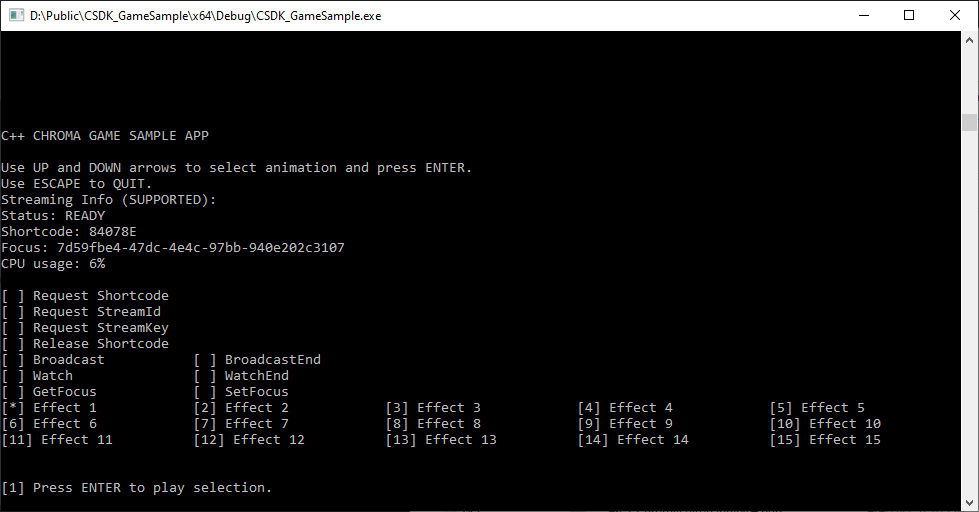
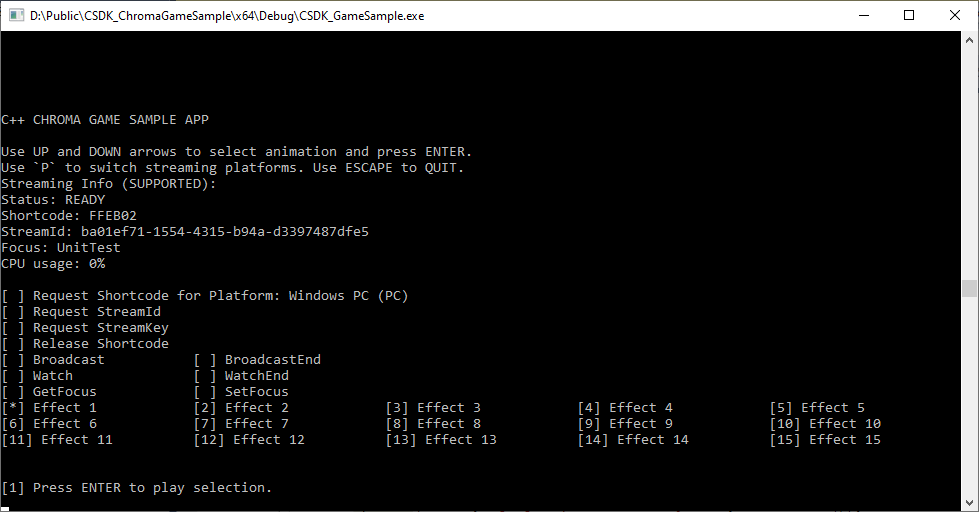
Added toggle 'P' for streaming platforms

diff --git a/Sample.cpp b/Sample.cpp
@@ -332,7 +332,7 @@ const char* IsSelected()
 
 CpuUsage _gUsage;
 
-void PrintLegend(bool supportsStreaming)
+void PrintLegend(bool supportsStreaming, BYTE platform)
 {
 	for (int i = 0; i < 25; ++i)
 	{
@@ -343,6 +343,10 @@ void PrintLegend(bool supportsStreaming)
 	fprintf(stdout, "\r\n");
 
 	fprintf(stdout, "Use UP and DOWN arrows to select animation and press ENTER.\r\n");
+	if (supportsStreaming)
+	{
+		fprintf(stdout, "Use `P` to switch streaming platforms. ");
+	}
     fprintf(stdout, "Use ESCAPE to QUIT.\r\n");
 
     if (supportsStreaming)
@@ -377,7 +381,24 @@ void PrintLegend(bool supportsStreaming)
     if (supportsStreaming)
     {
         _gIndex = -10;
-        fprintf(stdout, "[%s] Request Shortcode\r\n", IsSelected());
+		fprintf(stdout, "[%s] Request Shortcode for Platform: ", IsSelected());
+
+		switch (platform)
+		{
+		case 0:
+			fprintf(stdout, "Windows PC (PC)\r\n");
+			break;
+		case 1:
+			fprintf(stdout, "Windows Cloud (LUNA)\r\n");
+			break;
+		case 2:
+			fprintf(stdout, "Windows Cloud (GEFORCE NOW)\r\n");
+			break;
+		case 3:
+			fprintf(stdout, "Windows Cloud (GAME PASS)\r\n");
+			break;
+		}
+
         fprintf(stdout, "[%s] Request StreamId\r\n", IsSelected());
         fprintf(stdout, "[%s] Request StreamKey\r\n", IsSelected());
         fprintf(stdout, "[%s] Release Shortcode\r\n", IsSelected());
@@ -435,7 +456,7 @@ void ClearManualInput()
 	_gManualInput[1] = ' ';
 }
 
-void ExecuteEffect(bool supportsStreaming);
+void ExecuteEffect(bool supportsStreaming, BYTE platform);
 
 void Cleanup()
 {
@@ -525,11 +546,14 @@ int main()
         HandleInput(VK_NUMPAD9),
     };
 
-    PrintLegend(supportsStreaming);
+	BYTE platform = 0;
+
+    PrintLegend(supportsStreaming, platform);
     HandleInput inputUp = HandleInput(VK_UP);
     HandleInput inputDown = HandleInput(VK_DOWN);
     HandleInput inputBackspace = HandleInput(VK_BACK);
     HandleInput inputEnter = HandleInput(VK_RETURN);
+	HandleInput inputPlatform = HandleInput('P');
     HandleInput inputEscape = HandleInput(VK_ESCAPE);
 
     int autoPrint = 0;
@@ -539,7 +563,7 @@ int main()
         if (++autoPrint > 100)
         {
             autoPrint = 0;
-            PrintLegend(supportsStreaming);
+            PrintLegend(supportsStreaming, platform);
         }
 
         if (inputEscape.WasReleased())
@@ -550,6 +574,12 @@ int main()
             ChromaAnimationAPI::Uninit();
             break;
         }
+		else if (inputPlatform.WasReleased())
+		{
+			ClearManualInput();
+			platform = (platform + 1) % 4; //PC, AMAZON LUNA, MS GAME PASS, NVIDIA GFN
+			PrintLegend(supportsStreaming, platform);
+		}
         else if (inputUp.WasReleased())
         {
             ClearManualInput();
@@ -561,10 +591,10 @@ int main()
 			{
 				--_gSelection;
 			}
-			PrintLegend(supportsStreaming);
+			PrintLegend(supportsStreaming, platform);
             if (_gSelection > 1)
             {
-                ExecuteEffect(supportsStreaming);
+                ExecuteEffect(supportsStreaming, platform);
             }
 		}
 		
@@ -576,10 +606,10 @@ int main()
 			{
 				_gSelection++;
 			}
-			PrintLegend(supportsStreaming);
+			PrintLegend(supportsStreaming, platform);
             if (_gSelection > 1)
             {
-                ExecuteEffect(supportsStreaming);
+                ExecuteEffect(supportsStreaming, platform);
             }
 		}
 
@@ -637,19 +667,19 @@ int main()
 			{
 				_gSelection = val;
 			}
-			PrintLegend(supportsStreaming);
+			PrintLegend(supportsStreaming, platform);
 		}
 
 		if (inputEnter.WasReleased())
 		{
-			PrintLegend(supportsStreaming);
+			PrintLegend(supportsStreaming, platform);
 			ClearManualInput();
 
-            ExecuteEffect(supportsStreaming);
+            ExecuteEffect(supportsStreaming, platform);
 
             if (_gSelection < 1)
             {
-                PrintLegend(supportsStreaming);
+                PrintLegend(supportsStreaming, platform);
             }
 		}
 		Sleep(1);
@@ -660,7 +690,7 @@ int main()
     return 0;
 }
 
-void ExecuteEffect(bool supportsStreaming)
+void ExecuteEffect(bool supportsStreaming, BYTE platform)
 {
 	// get current time
 	high_resolution_clock::time_point timer = high_resolution_clock::now();
@@ -670,7 +700,23 @@ void ExecuteEffect(bool supportsStreaming)
     case -9:
         if (supportsStreaming)
         {
-            ChromaAnimationAPI::CoreStreamGetAuthShortcode(_gShortcode, &_gLenShortcode, L"PC", L"CSDK Sample App 好");
+			wstring strPlatform = L"PC";
+			switch (platform)
+			{
+			case 0:
+				strPlatform = L"PC";
+				break;
+			case 1:
+				strPlatform = L"LUNA";
+				break;
+			case 2:
+				strPlatform = L"GEFORCE_NOW";
+				break;
+			case 3:
+				strPlatform = L"GAME_PASS";
+				break;
+			}
+            ChromaAnimationAPI::CoreStreamGetAuthShortcode(_gShortcode, &_gLenShortcode, strPlatform.c_str(), L"CSDK Sample App 好");
         }
         break;
     case -8:

diff --git a/Razer/ChromaAnimationAPI.h b/Razer/ChromaAnimationAPI.h
@@ -612,7 +612,7 @@ typedef bool		(*PLUGIN_CORE_STREAM_GET_FOCUS)(char* focus, unsigned char* length
 	Retrieve the stream id after authorizing the shortcode. The authorization 
 	window will expire in 5 minutes. Be sure to save the stream key before 
 	the window expires.  platform: is the null terminated string that identifies 
-	the source of the stream: { GEFORCE_NOW, LUNA, STADIA, XBOX_GAME_PASS } 
+	the source of the stream: { GEFORCE_NOW, LUNA, STADIA, GAME_PASS } 
 	StreamGetStatus() should return the READY status to use this method.
 */
 typedef void		(*PLUGIN_CORE_STREAM_GET_ID)(const char* shortcode, char* streamId, unsigned char* length);
@@ -3272,7 +3272,7 @@ namespace ChromaSDK
 			Retrieve the stream id after authorizing the shortcode. The authorization 
 			window will expire in 5 minutes. Be sure to save the stream key before 
 			the window expires.  platform: is the null terminated string that identifies 
-			the source of the stream: { GEFORCE_NOW, LUNA, STADIA, XBOX_GAME_PASS } 
+			the source of the stream: { GEFORCE_NOW, LUNA, STADIA, GAME_PASS } 
 			StreamGetStatus() should return the READY status to use this method.
 		*/
 		CHROMASDK_DECLARE_METHOD(PLUGIN_CORE_STREAM_GET_ID, CoreStreamGetId);

diff --git a/README.md b/README.md
@@ -2616,7 +2616,7 @@ is greater than zero, it will be the length of the returned streaming id.
 Retrieve the stream id after authorizing the shortcode. The authorization 
 window will expire in 5 minutes. Be sure to save the stream key before 
 the window expires.  platform: is the null terminated string that identifies 
-the source of the stream: { GEFORCE_NOW, LUNA, STADIA, XBOX_GAME_PASS } 
+the source of the stream: { GEFORCE_NOW, LUNA, STADIA, GAME_PASS } 
 StreamGetStatus() should return the READY status to use this method.
 
 ```C++
